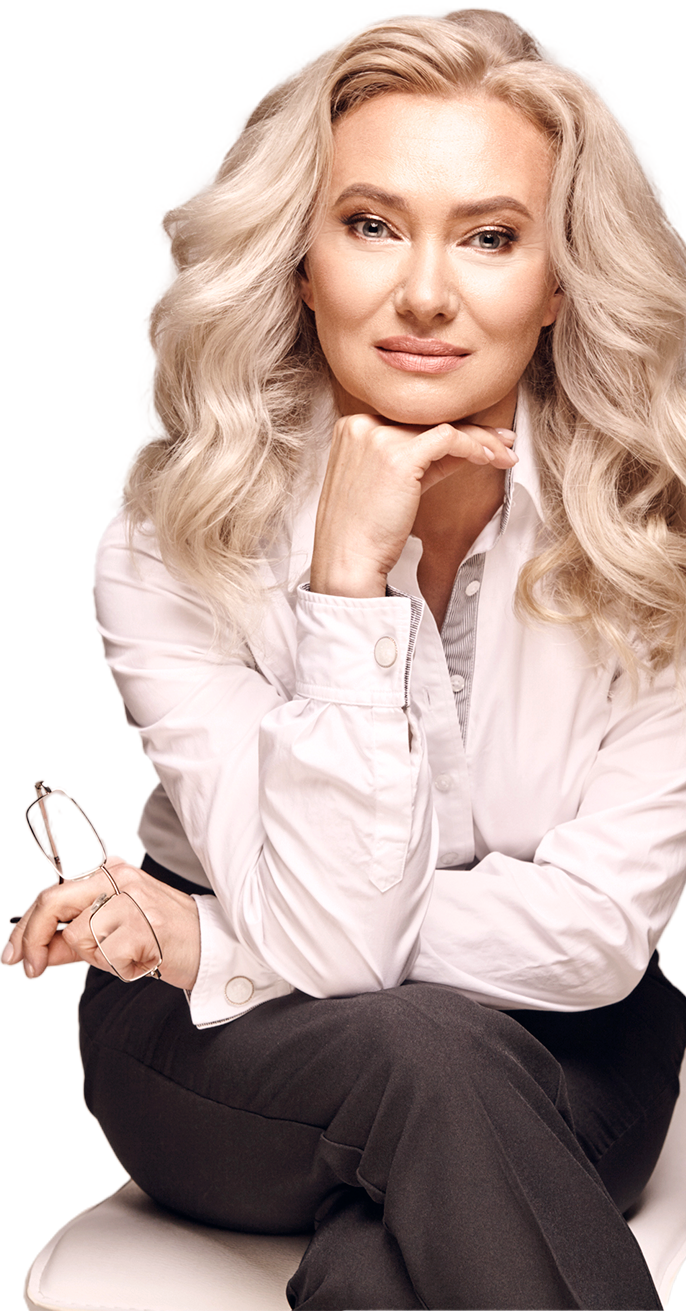
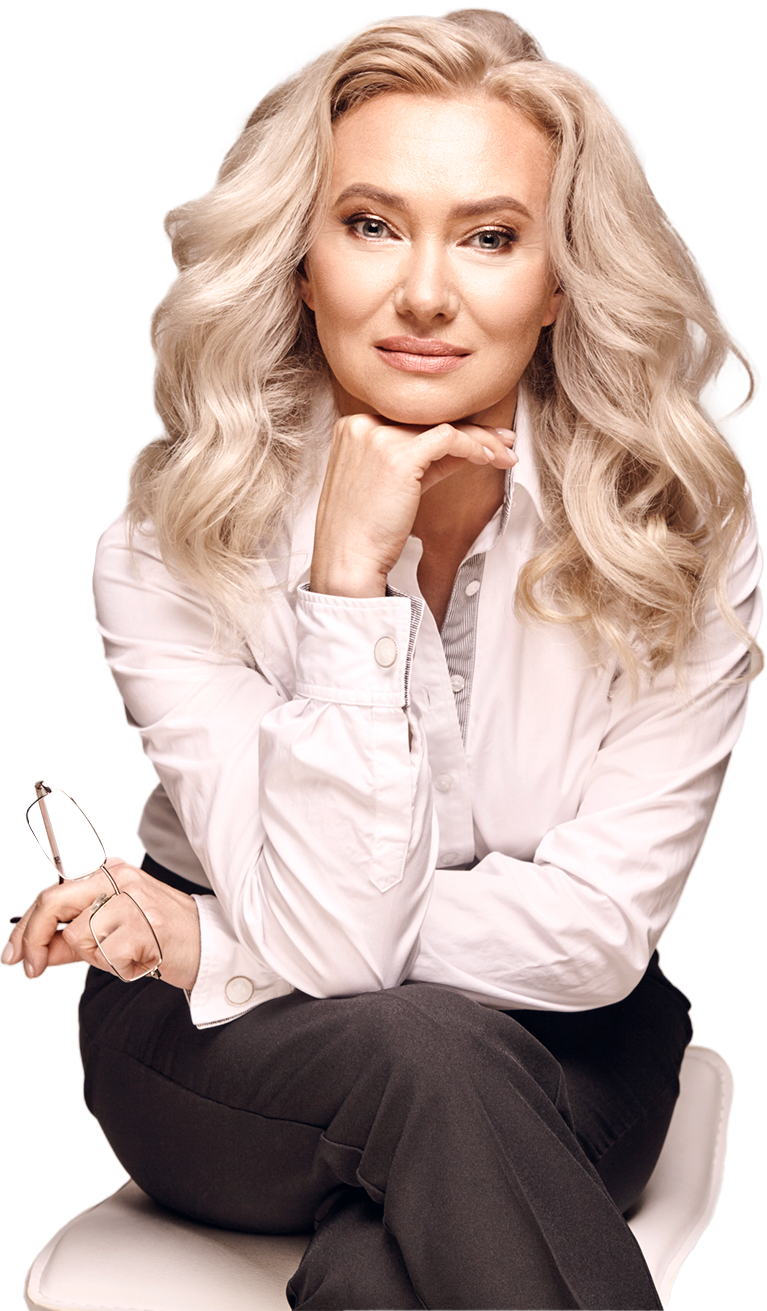
Iniciado versão mobile header

diff --git a/clinica-salomao/src/components/Header/Header.tsx b/clinica-salomao/src/components/Header/Header.tsx
@@ -5,38 +5,38 @@ import imagemHeader from '../../assets/headerImage.png'
 const Header = () => {
     return (
     <>
-    <div className='bg-gradient-to-t from-creme-escuro to-creme w-full h-[1730px] xl:w-auto md:bg-creme  sm:bg-creme '>
-        <div className="flex justify-center pt-6 bg-creme-claro h-[11.37rem] w-auto">
-            <img src={logo} alt="" className='absolute max-w-[22rem] h-auto'/>
+    <div className='bg-gradient-to-t from-creme-escuro to-creme w-full h-[1730px] pb-[5rem]'>
+        <div className="flex justify-center items-center mx-auto pt-6 bg-creme-claro h-[8rem] w-auto">
+            <img src={logo} alt="" className='mx-auto max-w-[10rem] mt-[1rem] h-auto'/>
         </div>
 
 
 
         <div className="grid justify-items-center pt-20 pb-20">
-            <h1 className='text-[6.875rem] -mb-12 font-belleza text-vermelho-madeira uppercase'>Rejuvenescer</h1>
-            <h1 className='text-[6.5rem] -mb-4 font-belleza text-vermelho-madeira uppercase'>mais de <span className='text-[9rem] text-siena'>10</span> anos </h1>
-            <h1 className='text-[4rem] font-belleza text-vermelho-madeira uppercase'>sem cirurgia é possível</h1>
+            <h1 className='text-[2.5rem] -mb-4 font-belleza text-vermelho-madeira uppercase'>Rejuvenescer</h1>
+            <h1 className='text-[2.5rem]  -mb-2  font-belleza text-vermelho-madeira uppercase'>mais de <span className='text-[4rem] text-siena'>10</span> anos </h1>
+            <h1 className='text-[1.5rem] font-belleza text-vermelho-madeira uppercase'>sem cirurgia é possível</h1>
         </div>
 
 
-        <div className="flex justify-center -mt-[3rem]">
-            <div className='flex content-center pt-[12rem] pl-[5rem] pb-[16rem] md:pb-[32rem] h-auto '>
-                <div className='bg-siena  w-[55rem] h-auto hover:shadow-dentro hover:shadow-creme hover:transition-all hover:ease-out hover:duration-700 rounded-tl-46 flex justify-left items-center  pl-[4rem] py-[3rem] '>
-                    <h2 className='text-[3.12rem]  max-w-[23rem] font-mont text-creme leading-tight text-left'>Você que tem entre 40 e 65 anos, que tal 
-                    <span className='text-[3.12rem] font-extrabold text-creme'> ELIMINAR</span> a
-                    <span className='text-[3.12rem] font-extrabold text-creme'> FLACIDEZ</span> e
-                    as <span className='text-[3.12rem] font-extrabold text-creme'> RUGAS</span> 
+        <div className="grid -mt-[3rem]">
+            <div className='flex mx-auto bg-siena content-center  '>
+                <div className=' h-auto w-[18rem] hover:shadow-dentro hover:shadow-creme hover:transition-all hover:ease-out hover:duration-700 rounded-tl-46 flex justify-left items-center'>
+                    <h2 className='text-[1.5rem] font-mont text-creme leading-tight text-center'>Você que tem entre 40 e 65 anos, que tal 
+                    <span className='text-[1.5rem] font-extrabold text-creme'> ELIMINAR</span> a
+                    <span className='text-[1.5rem] font-extrabold text-creme'> FLACIDEZ</span> e
+                    as <span className='text-[1.5rem] font-extrabold text-creme'> RUGAS</span> 
                     </h2>
                 </div>
             </div>          
-            <div className="absolute right-1 max-w-[35rem] max-h-[81rem] xl:right-[3rem] 2xl:right-[12rem]">
+            <div className="">
                 <img src={imagemHeader} alt="" className=' ' />
             </div>
        </div>
 
         
         
-        <div className="flex items-center mx-auto drop-shadow-lg -mt-[16rem] max-w-[1180px] ">
+        <div className="flex items-center mx-auto drop-shadow-lg  max-w-[1180px] ">
             <div className="bg-vermelho-madeira rounded-tl-46 rounded-br-46 ">
                 <h3 className='text-[2.5rem] text-center font-mont text-creme leading-tight  py-[3rem] px-[4rem] '>Tratamentos que estimulam colágeno de forma natural e muito segura, proporcionando um resultado maravilhoso devolvendo sua autoestima com segurança</h3>
             </div>
